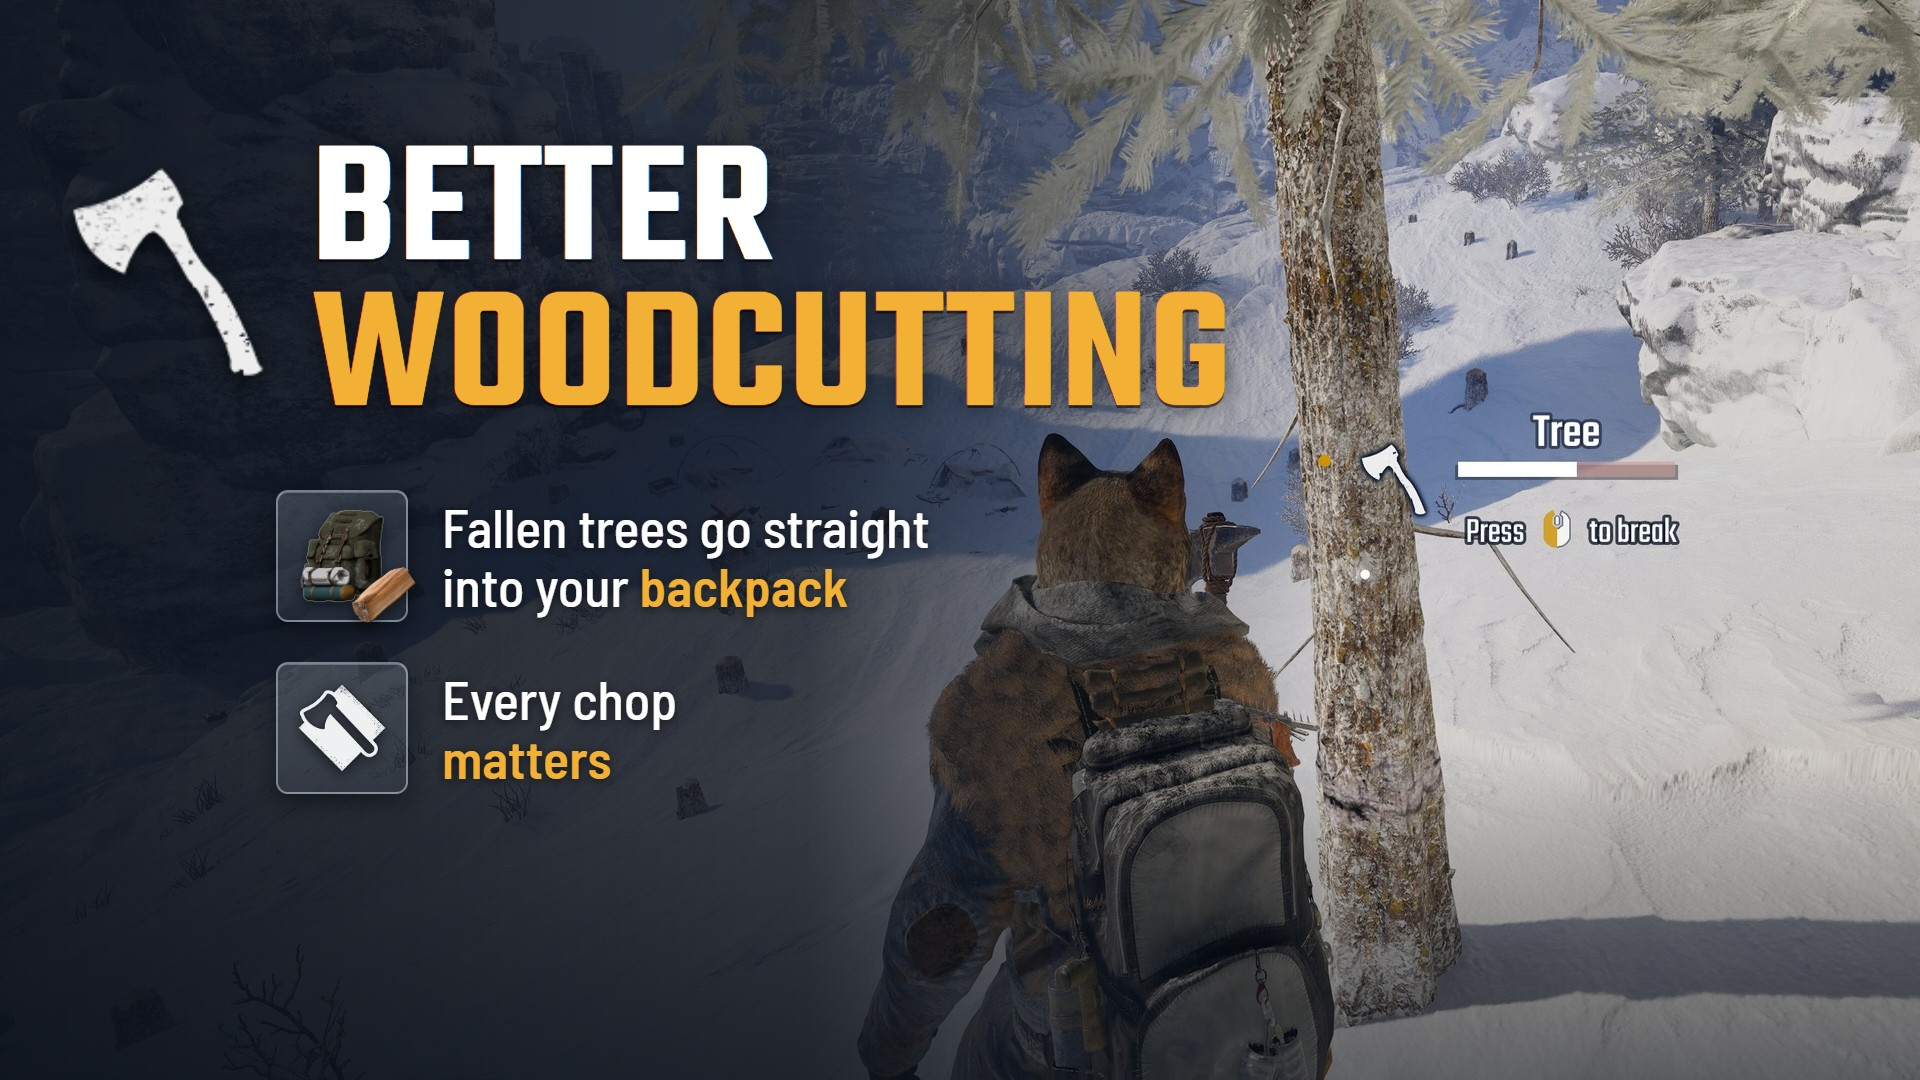
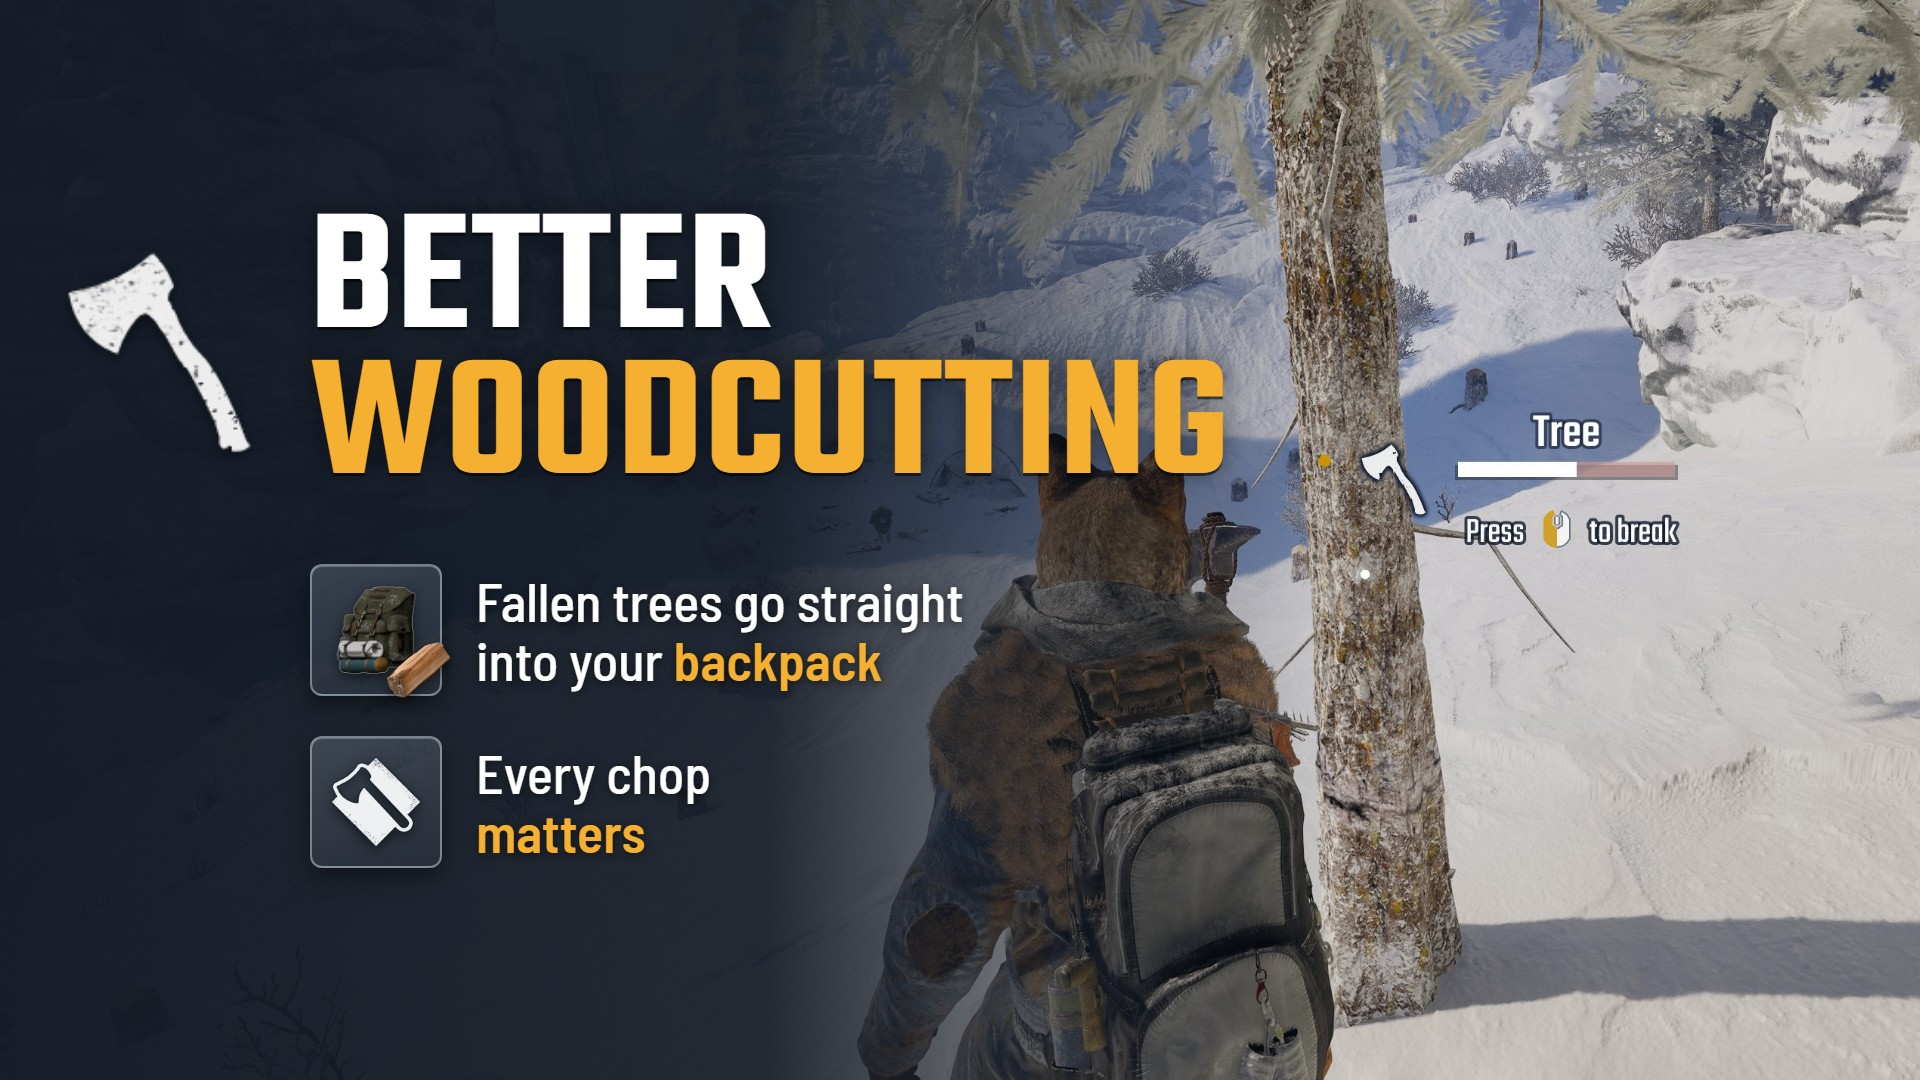
Render the Nexus thumbnail with the nexus-mod-images tool
Add content.json and the source screenshot, and use the shared Permafrost layout (Teko title, Barlow Semi Condensed captions, shadows).

Changed region(s): [[0.0312, 0.1222, 0.6562, 0.7944], [0.4375, 0.7639, 1.0, 1.0], [0.8438, 0.4889, 0.875, 0.5194]]

diff --git a/nexus/images/README.md b/nexus/images/README.md
@@ -1,10 +1,10 @@
 # Nexus images
 
-Made from in-game screenshots at 3840x2160, scaled down.
+Made from in-game screenshots at 3840x2160, scaled down. The thumbnail is rendered from `content.json` and `src/`; the other images are older crops.
 
 | File | Size | Role | Content |
 |---|---|---|---|
-| `00-thumbnail.jpg` | 1920x1080 | Gallery, first (Nexus uses it as the mods-grid thumbnail) | The title "Better Woodcutting" with the white axe of the game's Tree prompt, and two lines with the game's icons: the Survivor Backpack item with the Wood item on it, with "Fallen trees go straight into your backpack", and the white axe icon of the skill journal with "Every chop matters". The background is the `gallery-2-prompt.jpg` shot, cropped so that the game's Tree prompt (the white axe, the name, and the HP bar) sits on the right and the rest of the HUD is cut off, darkened on the left. The icons are the game's own textures (`Icon_Axe_01`, `T_SurvivorBackpack_Icon`, `T_WoodResource_Icon`, `T_Skill_Axes_Icon`). The layout is rendered from HTML with headless Edge. |
+| `00-thumbnail.jpg` | 1920x1080 | Gallery, first (Nexus uses it as the mods-grid thumbnail) | The title "Better Woodcutting" ("Woodcutting" in gold) with the white axe of the game's Tree prompt in the margin to its left, and two lines with the game's icons: the Survivor Backpack item with the Wood item on its corner, with "Fallen trees go straight into your backpack", and the white axe icon of the skill journal with "Every chop matters". The background is a crop of the `gallery-2-prompt.jpg` shot (`src/tree-prompt.jpg`), with the game's Tree prompt (the white axe, the name, and the HP bar) on the right, darkened on the left. The icons are the game's own textures (`Icon_Axe_01`, `T_SurvivorBackpack_Icon`, `T_WoodResource_Icon`, `T_Skill_Axes_Icon`). The text block starts 310 px from the left, to leave room for the axe. The layout is the series layout of the Permafrost mods (`MOD-IMAGES.md`); on the smallest grid card, the check box and the update badge cover a small part of the top-left corner of the title, which is accepted. Rendered with the nexus-mod-images tool from `content.json` and the screenshot in `src/`. |
 | `background.jpg` | 1300x372 | Page background | The snowy cliffs, the player, and a tree, cropped from the `gallery-1-tree.jpg` shot without the HUD. |
 | `gallery-1-tree.jpg` | 1920x1080 | Gallery | The player with the Refined Iron Axe next to a tree, above a camp in the cliffs. |
 | `gallery-2-prompt.jpg` | 1920x1080 | Gallery | The Tree prompt ("Press to break") at the edge of the prompt range. |
